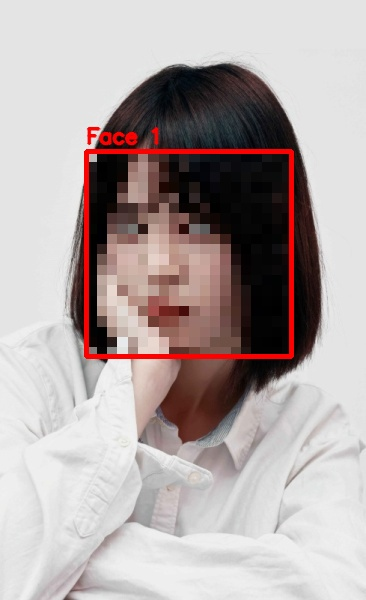
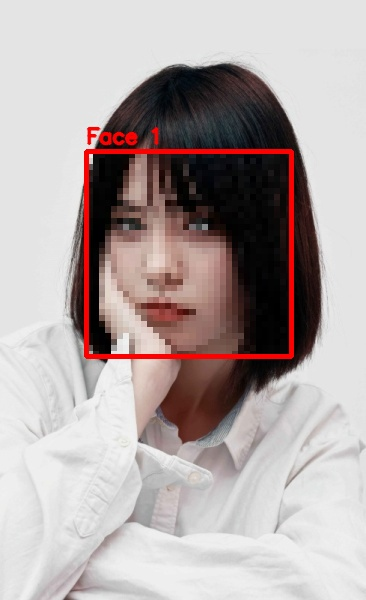
모자이크 설정 조절, 필요없는 결과 삭제

Changed region(s): [[0.2404, 0.24, 0.6612, 0.6], [0.6311, 0.54, 0.6913, 0.6], [0.2404, 0.24, 0.2705, 0.3]]

diff --git a/source/main.py b/source/main.py
@@ -36,7 +36,7 @@ MAX_FACE_ASPECT = 1.40
 FACE_PADDING_RATIO = 0.00
 
 # 모자이크 블록 설정
-MOSAIC_SIZE = 10
+MOSAIC_SIZE = 6
 
 # 고해상도 바운딩 박스 두께
 BOX_THICKNESS_RATIO = 0.004
@@ -349,7 +349,6 @@ def evaluate_results():
     print("모자이크 처리 성능 평가 결과")
     print("=" * 60)
     print(f"평가 대상 이미지 수: {total_evaluated}개")
-    print(f"정확히 일치 (Exact Match): {exact_matches}개 ({accuracy:.1f}%)")
     print(f"과검출 (Over-detection, 예측 > 실제): {over_detections}개")
     print(f"미검출 (Under-detection, 예측 < 실제): {under_detections}개")
     print(f"상세 평가 리포트 저장: {EVAL_CSV_PATH}")
@@ -569,8 +568,6 @@ def main():
     print("\n" + "=" * 60)
     print("작업 완료")
     print(f"전체 이미지: {len(image_files)}개")
-    print(f"성공: {success_count}개")
-    print(f"실패: {failed_count}개")
     print(f"총 검출 얼굴 수: {total_faces}개")
     print(f"결과 이미지 폴더: {OUTPUT_DIR}")
     print(f"좌표 CSV: {CSV_PATH}")
